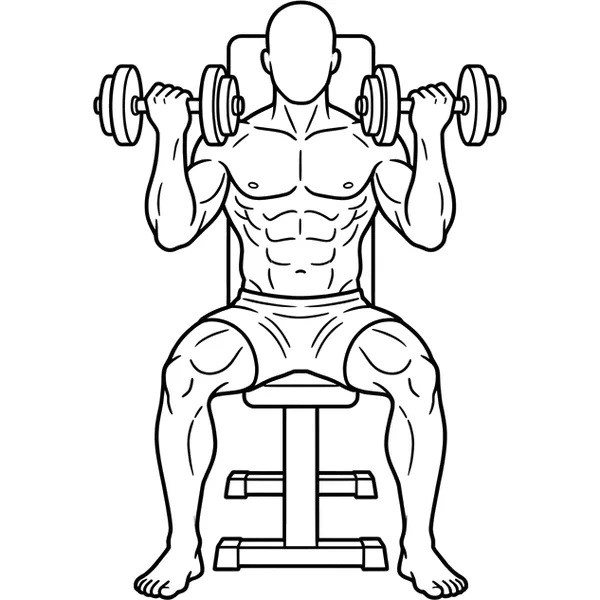
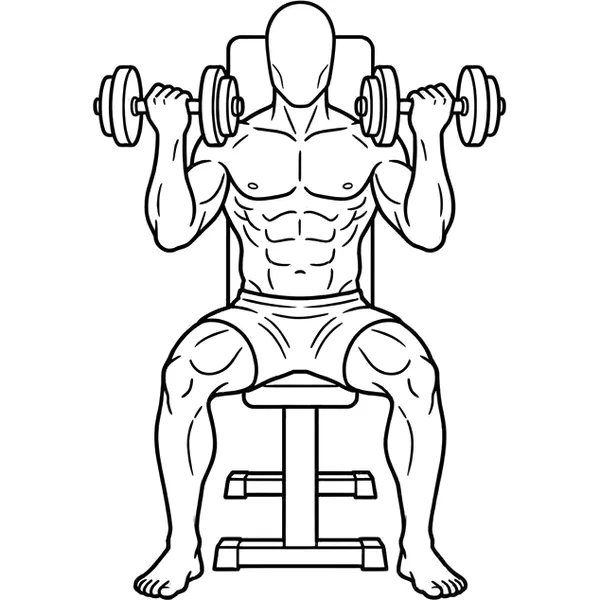
0.90.3: primera tanda de dibujos con Gemini: goblet, press Arnold, patada de gluteo, abduccion en polea, jalon al pecho y tres jalones con dibujo propio

diff --git a/web/sw.js b/web/sw.js
@@ -7,12 +7,12 @@
 // Solo se ocupa del CÓDIGO de la app. Los datos del usuario nunca pasan por
 // aquí: viven en el dispositivo (IndexedDB) y en su Google Drive.
 
-const VERSION = '0.90.2';
+const VERSION = '0.90.3';
 const CACHE = `entreno-${VERSION}`;
 // Las imágenes van en un almacén aparte que NO se borra al actualizar la app:
 // así se ven sin conexión aunque haya salido una versión nueva.
 // Si cambian las imágenes, se sube el número y los móviles bajan las nuevas.
-const CACHE_IMAGENES = 'entreno-imagenes-55';  // el mismo nombre en app.js (guardarImagenesParaSinConexion)
+const CACHE_IMAGENES = 'entreno-imagenes-56';  // el mismo nombre en app.js (guardarImagenesParaSinConexion)
 // Los audios de hipnosis, igual: almacén aparte que NO se borra al actualizar
 // la app. Pesan varios megas cada uno y no cambian nunca, así que se guardan
 // la primera vez que suenan y a partir de ahí se oyen sin conexión. Si algún

diff --git a/web/js/app.js b/web/js/app.js
@@ -249,7 +249,7 @@ async function guardarImagenesParaSinConexion() {
     const capas = Object.entries(MUSCULOS).flatMap(([clave, m]) => m.vistas.map((v) => archivoCapa(clave, v)));
     const cuerpo = ['imagenes/musculos/cuerpo-delante.svg', 'imagenes/musculos/cuerpo-detras.svg'];
     // El mismo nombre que CACHE_IMAGENES en sw.js: si no, el service worker lo borra.
-    const cache = await caches.open('entreno-imagenes-55');
+    const cache = await caches.open('entreno-imagenes-56');
     for (const ruta of [...cuerpo, ...capas, ...mios]) {
       if (!(await cache.match(ruta, { ignoreSearch: true }))) {
         const r = await fetch(ruta).catch(() => null);

diff --git a/web/js/version.js b/web/js/version.js
@@ -1,3 +1,3 @@
 // Versión del código de la app. Se sube en cada publicación y debe coincidir
 // con VERSION en sw.js, que es lo que hace que los móviles se actualicen.
-export const VERSION_APP = '0.90.2';
+export const VERSION_APP = '0.90.3';

diff --git a/herramientas/procesar_uno.py b/herramientas/procesar_uno.py
@@ -1,0 +1,27 @@
+"""Procesa UN original de la IA (dos posturas en una imagen, o una quieta) sin tocar creditos.json: para rehacer un
+dibujo que la app ya usa. Después le pasa el congelado (lo que no se mueve, idéntico entre posturas).
+Uso: python herramientas/procesar_uno.py imagenes-ia/gemini/fases-<slug>.jpg [ancla]
+El nombre del archivo manda: `fases-`, `quieto-` o `completo-` más el slug de peticiones.json (de ahí salen el ancla
+y las demás opciones)."""
+import sys
+from pathlib import Path
+
+sys.path.insert(0, str(Path(__file__).resolve().parent))
+import imagenes_ia as m
+from fijar_zona import posturas, congelar
+
+origen = Path(sys.argv[1])
+nombre = origen.stem.split('-', 1)[1]
+entrada = m.leer_tabla().get(nombre)
+op = entrada if isinstance(entrada, dict) else {}
+modo = sys.argv[2] if len(sys.argv) > 2 else op.get('ancla', 'pies')   # segundo argumento: el ancla, si el dibujo no está en peticiones.json
+if origen.stem.startswith('completo-'):
+    modo = m.ANCLA_COMPLETO.get(nombre, 'encajar-suelo')
+salida, animada = m.procesar(origen, modo, bool(op.get('espejo')), bool(op.get('solo')), bool(op.get('invertir')), op.get('mover'),
+                             op.get('escala'), op.get('recorte'), None if origen.stem.startswith('completo-') else op.get('grosor'))
+print('animada' if animada else 'quieta', salida, 'ancla', modo)
+if animada:
+    ruta = m.SALIDA / f'{salida}.webp'
+    cuadros, tiempos = posturas(ruta)
+    nuevos = [cuadros[0]] + [congelar(cuadros[0], c)[0] for c in cuadros[1:]]
+    nuevos[0].save(ruta, 'WEBP', save_all=True, append_images=nuevos[1:], duration=tiempos, loop=0, quality=82, method=6)

diff --git a/herramientas/imagenes_ia.py b/herramientas/imagenes_ia.py
@@ -378,7 +378,8 @@ CONGELADOS = {"cruces-en-polea-completo",
               # 11-11: pies, manos o apoyos fijados con fijar_zona.py (octava revisión de Dan)
               "hip-thrust", "flexiones-con-lastre", "puente-de-gluteo", "elevacion-de-rodillas-colgado",
               # 11-11: montados con dibujos que ya había (zancadas hacia delante, dominadas con dos vistas)
-              "zancadas-adelante", "dominadas-dos-vistas", "colgarse-de-la-barra-de-frente"}
+              "zancadas-adelante", "dominadas-dos-vistas", "colgarse-de-la-barra-de-frente",
+              "dominadas-asistidas"}  # 11-11: la oreja de la primera postura, borrada a mano
 
 QUIETOS = {"Plancha lateral": "imagenes/ejercicios/anim/plancha-lateral-quieta.webp"}
 

diff --git a/imagenes-ia/cola.md b/imagenes-ia/cola.md
@@ -278,3 +278,13 @@ No salió con código: sentadilla búlgara (para clavar el pie de delante hay qu
 rehacer con IA, las dos posturas en una imagen). Elevaciones laterales («los pies siguen elevados»): es el dibujo de los
 pies, hay que redibujarlos. Elevaciones frontales alternas: la vista es de tres cuartos, no vale el espejo.
 Página de revisión de esta pasada (antes y después): ver `docs/pendientes.md`, sección 0.
+
+Con Gemini (11-11, tarde; cortado al agotarse el uso de Claude): cabeza de la goblet, orejas del press Arnold y de la patada
+de glúteo, abducción en polea rehecha (misma columna, más músculo, cabeza lisa), jalón al pecho con la cabeza de abajo
+normal (`completo-jalon-al-pecho-ek`), y dibujos propios de jalón con cuerda, tras nuca y unilateral hechos adjuntando el
+jalón al pecho nuevo como base («a partir de este, mismo asiento y mismo cable, cambia el ejercicio a…»: sale a la primera).
+Dominadas asistidas: oreja borrada a mano. Descartados (en `descartes/`, con `-11-11`): dominadas asistidas (cambiaba la
+máquina) y cabeza a la rodilla (cambió la postura). Método para subir el dibujo de base sin abrir el selector de archivos:
+abrir el menú «+» de Gemini (los `input[type=file]` solo existen con el menú abierto), subir el archivo al que acepta
+`image/*` con file_upload y cerrar el menú con Escape. Un original nuevo se procesa con `herramientas/procesar_uno.py`
+(no toca creditos.json). Sigue pendiente todo lo demás de la lista «Con IA» de la octava revisión.

diff --git a/CLAUDE.md b/CLAUDE.md
@@ -1948,3 +1948,11 @@ funciona» no hace falta que lo marque. Hecho en esta ronda (esquema v40, `perfi
   están en `CONGELADOS` (imagenes_ia.py). Almacén `entreno-imagenes-55`.
 - Lo que sigue pidiendo IA (dibujos propios para los alias que no corresponden, caras, búlgara, laterales…) está en
   `imagenes-ia/cola.md`, «Octava revisión» y «Novena pasada». Copia de los dibujos de antes: `imagenes-ia/antes-11-11/`.
+
+### 0.90.3 (11-11-2026): primera tanda de dibujos con Gemini
+
+Goblet, press Arnold, patada de glúteo y abducción en polea rehechos (cabezas y orejas; la abducción, entera); oreja de
+las dominadas asistidas borrada a mano; jalón al pecho con la cabeza corregida (`jalon-al-pecho-ek-completo`) y dibujos
+propios de «Jalón con cuerda», «Jalón tras nuca» y «Jalón unilateral en polea» (antes llevaban el del jalón al pecho).
+`herramientas/procesar_uno.py`: procesa un original suelto sin tocar creditos.json y le pasa el congelado. Almacén
+`entreno-imagenes-56`. El método con Gemini y lo que queda, en `imagenes-ia/cola.md` («Novena pasada»).
